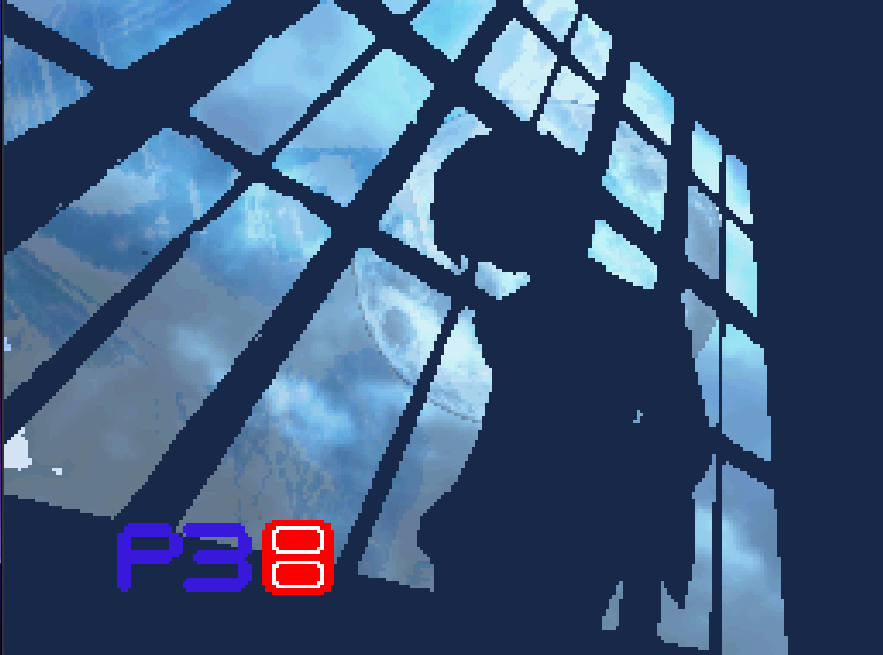
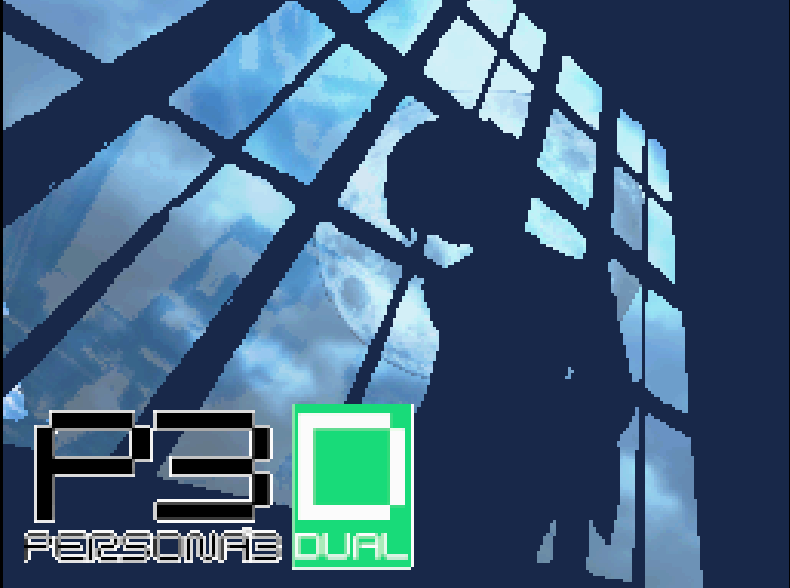
Updated homepage and experiences

diff --git a/src/pages/experiences/data.ts b/src/pages/experiences/data.ts
@@ -7,9 +7,9 @@ export const experienceData: ExperienceData = [
       {
         text: 'Software Engineering Intern',
         duration: 'Jan 2026 – Apr. 2026',
-        description: 'Engineered OAMP (Operations, Administration, Maintenance, Provisioning) features for the flagship 6500 optical networking product targeting VxWorks and Linux kernels in C++, XML, and Python',
+        description: 'Developed and shipped embedded firmware in C for the flagship 6500 optical networking platform, targeting both VxWorks RTOS and Linux kernels',
         icon: 'i-ri-price-tag-3-fill',
-        skills: ['i-devicon-c', 'i-devicon-xml', 'i-devicon-python'],
+        skills: ['i-devicon-c', 'i-devicon-python', 'i-devicon-xml'],
         image: '/projects/ciena.png',
         href: 'https://www.ciena.com/',
       },
@@ -42,7 +42,7 @@ export const experienceData: ExperienceData = [
     title: 'Personal',
     projects: [
       {
-        text: 'Persona 3 DS',
+        text: 'Persona 3 Dual',
         duration: 'Feb. 2026 – Present',
         description: 'A demake of Persona 3 (based on Persona 3 FES) for the Nintendo DS built using the devkitpro toolchain with a custom C++ game engine',
         icon: 'i-carbon-game-console',
